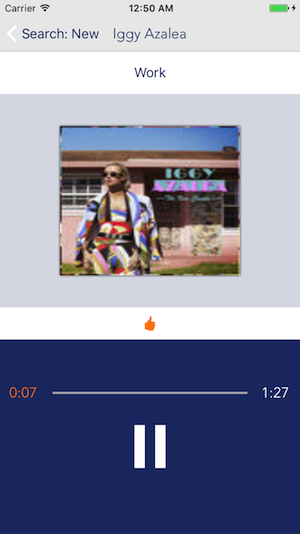
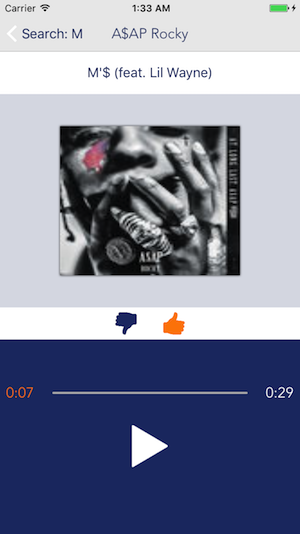
added images

diff --git a/Musicly/Musicly/UI/Tracks/PlayerView.swift b/Musicly/Musicly/UI/Tracks/PlayerView.swift
@@ -7,6 +7,8 @@
 //
 
 import UIKit
+import CoreMedia
+import AVFoundation
 
 protocol PlayerViewDelegate: class {
     func downloadButtonTapped()
@@ -47,15 +49,16 @@ class PlayerView: UIView {
     
     var totalPlayLengthLabel: UILabel = {
         let label = UILabel()
-        label.text = "1:27"
         label.font = UIFont(name: "Avenir-Book", size: 18)!
         label.textColor = .white
+        label.textAlignment = .right
         return label
     }()
     
     var currentPlayLength: UILabel = {
         let label = UILabel()
         label.text = "0:07"
+        label.textAlignment = .left
         label.font = UIFont(name: "Avenir-Book", size: 18)!
         label.textColor = .orange
         return label
@@ -65,6 +68,12 @@ class PlayerView: UIView {
         let thumbsUpButton = UIButton()
         thumbsUpButton.setImage(#imageLiteral(resourceName: "thumbsupiconorange"), for: .normal)
         return thumbsUpButton
+    }()
+    
+    var thumbsDownButton: UIButton = {
+        let thumbsDownButton = UIButton()
+        thumbsDownButton.setImage(#imageLiteral(resourceName: "thumbsdownblue"), for: .normal)
+        return thumbsDownButton
     }()
     
     var controlsView: UIView = {
@@ -122,6 +131,29 @@ class PlayerView: UIView {
         pauseButton.addTarget(self, action: #selector(pauseButtonTapped), for: .touchUpInside)
     }
     
+    func setupTime(time: CMTime) {
+        if let track = track {
+            let asset = AVAsset(url: URL(string: track.previewUrl)!)
+            
+            
+                //AVURLAsset(URL: URL(string: track.previewUrl)!, options: nil)
+            let audioDuration = asset.duration
+            let audioDurationSeconds = CMTimeGetSeconds(audioDuration)
+            let minutes = Int(audioDurationSeconds / 60)
+            let rem = Int(audioDurationSeconds.truncatingRemainder(dividingBy: 60))
+           // print(rem) // 0.3
+            
+           // let seconds = Float(audioDurationSeconds) % 60
+            
+            DispatchQueue.main.async {
+                self.totalPlayLengthLabel.text = "\(minutes):\(rem)"
+            }
+            
+            print(time)
+        }
+       
+    }
+    
     func setupView() {
         
         addSubview(trackTitleView)
@@ -152,10 +184,17 @@ class PlayerView: UIView {
         
         preferencesView.addSubview(thumbsUpButton)
         thumbsUpButton.translatesAutoresizingMaskIntoConstraints = false
-        thumbsUpButton.widthAnchor.constraint(equalTo: preferencesView.widthAnchor, multiplier: 0.04).isActive = true
-        thumbsUpButton.heightAnchor.constraint(equalTo: preferencesView.heightAnchor, multiplier: 0.45).isActive = true
-        thumbsUpButton.centerXAnchor.constraint(equalTo: preferencesView.centerXAnchor).isActive = true
+        thumbsUpButton.widthAnchor.constraint(equalTo: preferencesView.widthAnchor, multiplier: 0.08).isActive = true
+        thumbsUpButton.heightAnchor.constraint(equalTo: preferencesView.heightAnchor, multiplier: 0.7).isActive = true
+        thumbsUpButton.centerXAnchor.constraint(equalTo: preferencesView.centerXAnchor, constant: UIScreen.main.bounds.width * 0.08).isActive = true
         thumbsUpButton.centerYAnchor.constraint(equalTo: preferencesView.centerYAnchor).isActive = true
+        
+        preferencesView.addSubview(thumbsDownButton)
+        thumbsDownButton.translatesAutoresizingMaskIntoConstraints = false
+        thumbsDownButton.widthAnchor.constraint(equalTo: preferencesView.widthAnchor, multiplier: 0.08).isActive = true
+        thumbsDownButton.heightAnchor.constraint(equalTo: preferencesView.heightAnchor, multiplier: 0.7).isActive = true
+        thumbsDownButton.centerXAnchor.constraint(equalTo: preferencesView.centerXAnchor, constant: UIScreen.main.bounds.width * -0.08).isActive = true
+        thumbsDownButton.centerYAnchor.constraint(equalTo: preferencesView.centerYAnchor).isActive = true
         
         addSubview(controlsView)
         controlsView.translatesAutoresizingMaskIntoConstraints = false
@@ -185,9 +224,9 @@ class PlayerView: UIView {
         
         controlsView.addSubview(totalPlayLengthLabel)
         totalPlayLengthLabel.translatesAutoresizingMaskIntoConstraints = false
-        totalPlayLengthLabel.widthAnchor.constraint(equalTo: controlsView.widthAnchor, multiplier: 0.1).isActive = true
+        totalPlayLengthLabel.widthAnchor.constraint(equalTo: controlsView.widthAnchor, multiplier: 0.18).isActive = true
         totalPlayLengthLabel.heightAnchor.constraint(equalTo: controlsView.heightAnchor, multiplier: 0.25).isActive = true
-        totalPlayLengthLabel.rightAnchor.constraint(equalTo: controlsView.rightAnchor, constant: UIScreen.main.bounds.width * -0.03).isActive = true
+        totalPlayLengthLabel.rightAnchor.constraint(equalTo: controlsView.rightAnchor, constant: UIScreen.main.bounds.width * -0.02).isActive = true
         totalPlayLengthLabel.centerYAnchor.constraint(equalTo: controlsView.centerYAnchor, constant: UIScreen.main.bounds.height * -0.1).isActive = true
 
         
@@ -195,7 +234,7 @@ class PlayerView: UIView {
         currentPlayLength.translatesAutoresizingMaskIntoConstraints = false
         currentPlayLength.widthAnchor.constraint(equalTo: controlsView.widthAnchor, multiplier: 0.1).isActive = true
         currentPlayLength.heightAnchor.constraint(equalTo: controlsView.heightAnchor, multiplier: 0.25).isActive = true
-        currentPlayLength.leftAnchor.constraint(equalTo: controlsView.leftAnchor, constant: UIScreen.main.bounds.width * 0.03).isActive = true
+        currentPlayLength.leftAnchor.constraint(equalTo: controlsView.leftAnchor, constant: UIScreen.main.bounds.width * 0.02).isActive = true
         currentPlayLength.centerYAnchor.constraint(equalTo: controlsView.centerYAnchor, constant: UIScreen.main.bounds.height * -0.1).isActive = true
 
         

diff --git a/Musicly/Musicly/UI/Tracks/PlayerViewController.swift b/Musicly/Musicly/UI/Tracks/PlayerViewController.swift
@@ -29,26 +29,33 @@ class PlayerViewController: UIViewController {
             playerView.configure(with: track)
         }
         title = track?.artistName
+        if let urlString = track?.previewUrl, let url = URL(string: urlString) {
+            setupPlayer(url: url)
+            
+        }
+        if let currentItem = player.currentItem {
+            playerView.setupTime(time: currentItem.duration)
+        }
     }
-}
-
-extension PlayerViewController: PlayerViewDelegate {
     
     private func setupPlayer(url: URL) {
         let playerItem = AVPlayerItem(url: url)
         player = AVPlayer(playerItem: playerItem)
         player.rate = PlayerAttributes.playerRate
     }
+}
+
+extension PlayerViewController: PlayerViewDelegate {
     
     func pauseButtonTapped() {
+        player.currentItem?.duration
         print("pause")
         player.pause()
     }
     
     func playButtonTapped() {
-        if let urlString = track?.previewUrl, let url = URL(string: urlString) {
-            setupPlayer(url: url)
-        }
+       
+        
         player.play()
     }
     
